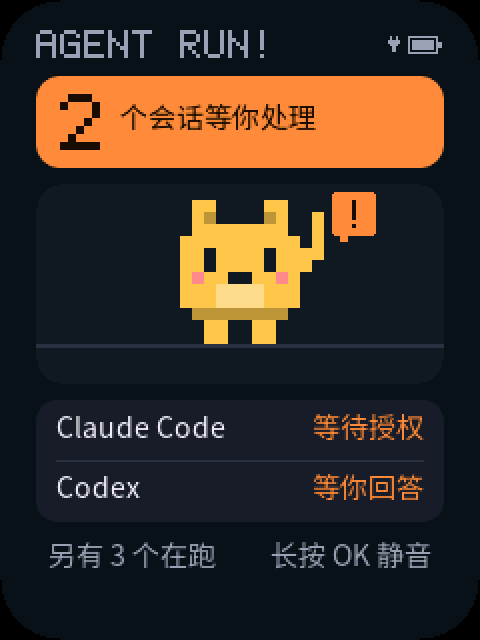
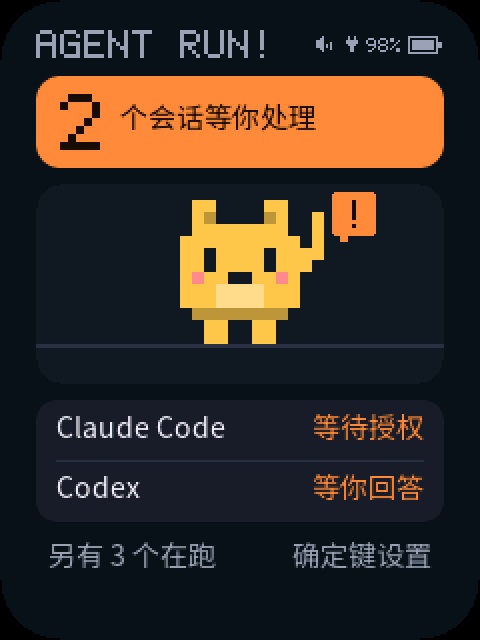
docs: 用新固件重拍 README 真机截图
- docs/images 下 7 张截图改由 4432443 固件拍摄：标题栏显示音量与电量百分比，等你处理画面底部提示改为“确定键设置”
- readme_screens.py 每个画面先等 5.5 秒再发第二帧截屏，避开完成数增加时的“完成 +N”提示

Changed region(s): [[0.5625, 0.8438, 0.9062, 0.9062], [0.7188, 0.0625, 0.8438, 0.0938], [0.6562, 0.0625, 0.6875, 0.0938]]

diff --git a/scripts/readme_screens.py b/scripts/readme_screens.py
@@ -32,6 +32,10 @@ SCREENS = [
     ("waiting", Snapshot(cc=2, cx=1, ds=0, done=21, wn=2, waiting=[("claude", "A"), ("codex", "Q")])),
 ]
 
+# 等“完成 +N”提示结束的时间：固件 AR_DONE_FLASH_MS 为 5 秒，多留 0.5 秒余量；
+# 仍短于 USB 链路 10 秒超时，等待期间设备不会判定未连接
+DONE_FLASH_WAIT_S = 5.5
+
 
 def save(rgb, width, height, scale, path):
     rgb, width, height = screenshot.scale_rgb(rgb, width, height, scale)
@@ -56,9 +60,11 @@ def main():
     link.open()
     try:
         for seq, (name, snap) in enumerate(SCREENS):
-            # 连发两帧并等画面稳定（切换后会立即重画，动画帧间隔最长 600 ms）
+            # 连发两帧并等画面稳定（切换后会立即重画，动画帧间隔最长 600 ms）。
+            # 完成数比设备上一帧大时，固件会用“完成 +N”替换状态行 5 秒，
+            # 所以第一帧之后先等这段提示过去，再发完成数不变的第二帧并截屏。
             link.write_line(encode_state(snap, seq * 2))
-            time.sleep(0.3)
+            time.sleep(DONE_FLASH_WAIT_S)
             link.write_line(encode_state(snap, seq * 2 + 1))
             time.sleep(1.0)
             width, height, rgb = screenshot.capture(link)
